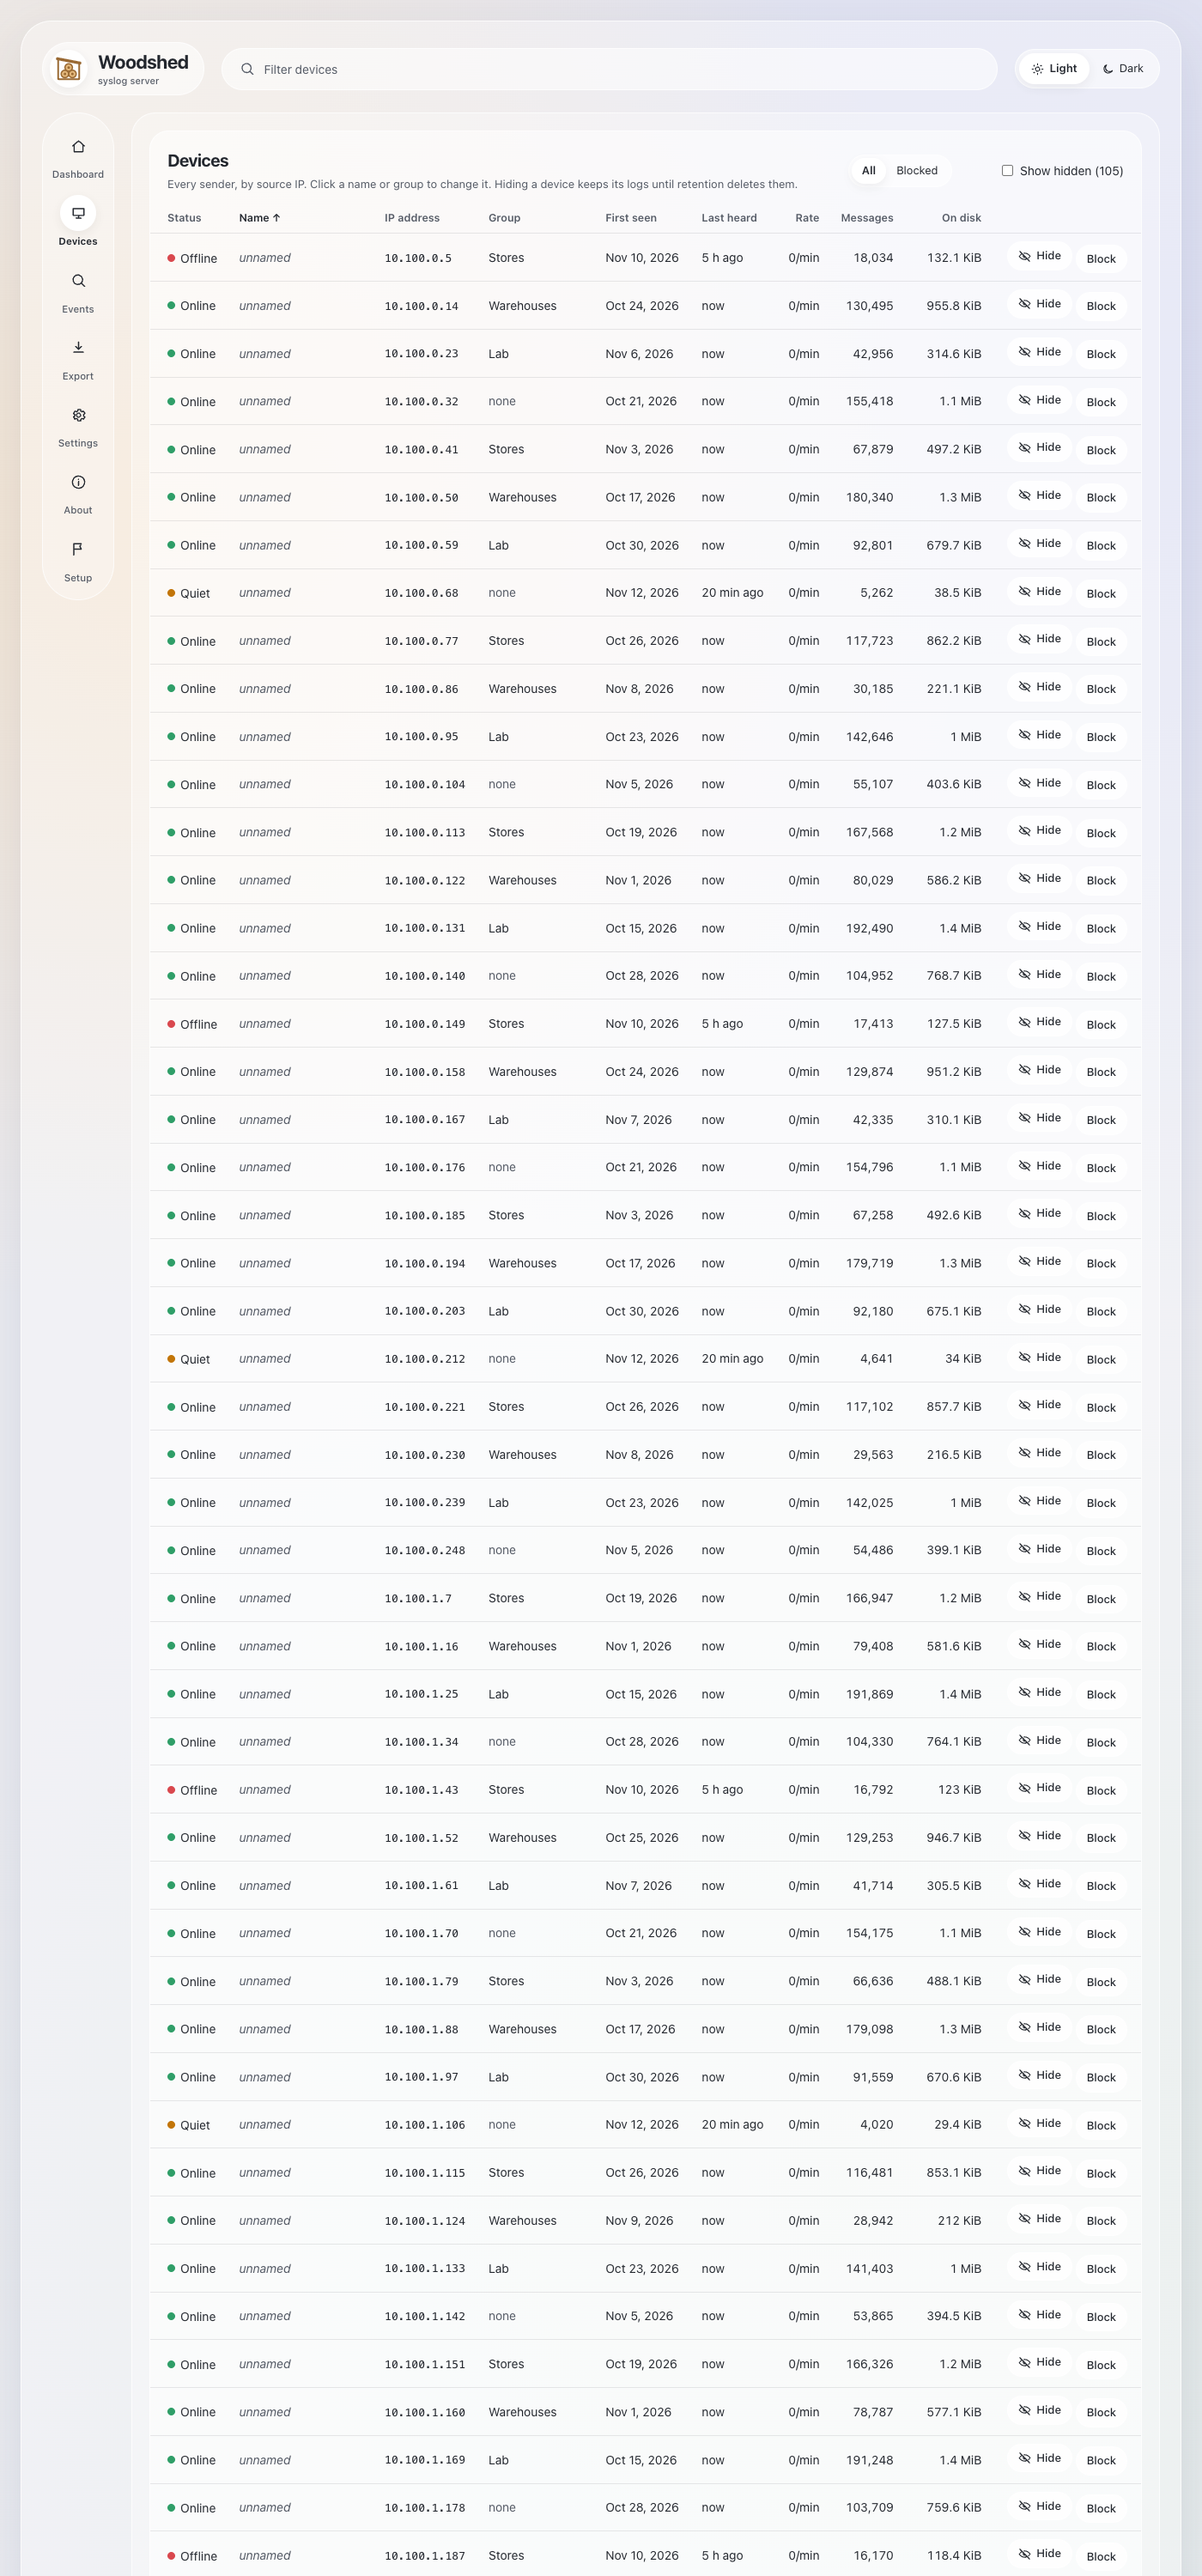
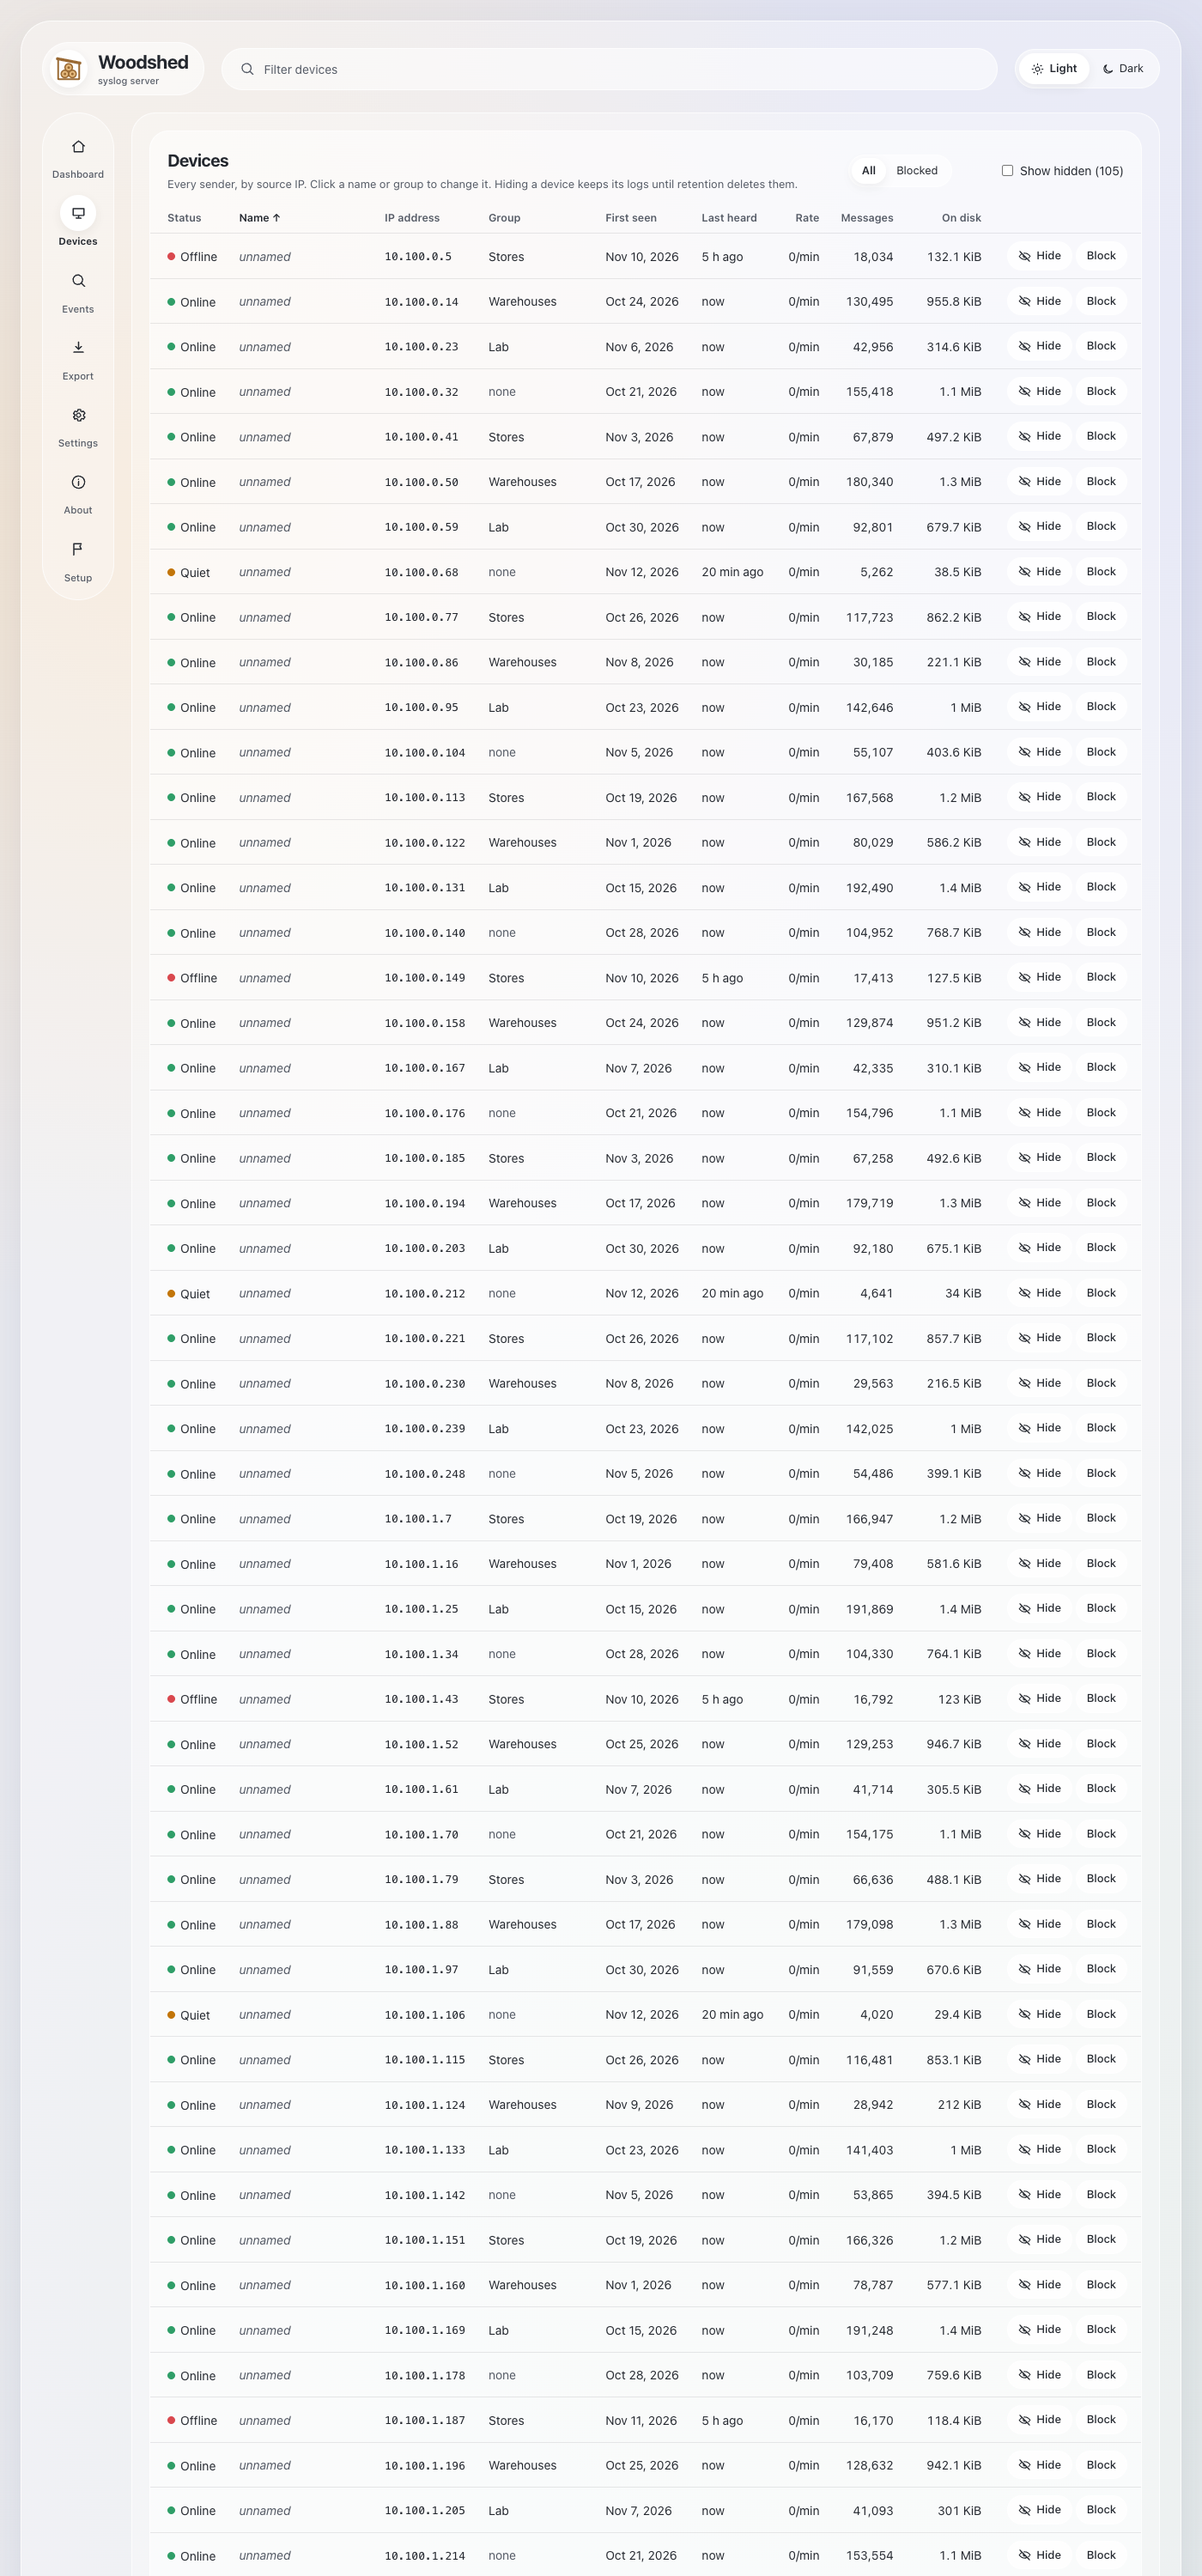
Devices: keep Hide/Block on one line next to the TLS badges
At 1400 px the 1.1 TLS badge widened the IP column, and the actions
column, which could wrap, took the squeeze: Hide and Block stacked on
every row. The actions cell is now nowrap, the badge drops under the IP
when its column is tight, and the two buttons share a middle alignment
(Hide's leading icon gave it a higher baseline). Regenerated the
devices-* shots; block-from-dashboard doesn't show this table and is
unchanged.

diff --git a/web/src/pages/Devices.svelte b/web/src/pages/Devices.svelte
@@ -244,8 +244,9 @@
               {/if}
               {#if rowError[d.id]}<div class="mt-1 text-[12.5px] text-bad-fg" role="alert">{rowError[d.id]}</div>{/if}
             </td>
-            <td class="whitespace-nowrap">
-              <span class="font-mono text-[13px]">{d.ip}</span>
+            <!-- The TLS badge goes under the IP when the column is tight, so the row's actions keep their one line. -->
+            <td><span class="ipcell">
+              <span class="font-mono text-[13px] whitespace-nowrap">{d.ip}</span>
               {#if d.tls}
                 {@const h = tlsHealth(d.tls)}
                 <button
@@ -258,7 +259,7 @@
                   {h === 'failing' ? 'TLS failing' : h === 'some' ? `TLS · ${num(d.tls.failures_24h)} failed` : 'TLS'}
                 </button>
               {/if}
-            </td>
+            </span></td>
             <td class="min-w-[120px]">
               {#if editing?.id === d.id && editing.field === 'group'}
                 <input
@@ -283,7 +284,7 @@
             <td class="text-right whitespace-nowrap tabular-nums">{rate(d.msgs_per_min)}</td>
             <td class="text-right whitespace-nowrap tabular-nums">{num(d.total_msgs)}</td>
             <td class="text-right whitespace-nowrap tabular-nums">{bytes(d.bytes_on_disk)}</td>
-            <td class="text-right">
+            <td class="acts text-right whitespace-nowrap">
               <button
                 class="ghost-btn whitespace-nowrap"
                 disabled={saving === d.id}
@@ -413,9 +414,19 @@
     color: inherit;
     cursor: pointer;
   }
+  /* Hide starts with its icon, so an inline-flex baseline would sit it higher than Block. */
+  .acts .ghost-btn {
+    vertical-align: middle;
+  }
+  .ipcell {
+    display: inline-flex;
+    flex-wrap: wrap;
+    align-items: center;
+    gap: 4px 8px;
+  }
   .tls {
-    margin-left: 8px;
     padding: 1px 8px;
+    white-space: nowrap;
     border-radius: 999px;
     border: 1px solid var(--input-border);
     background: var(--chip);
@@ -424,7 +435,6 @@
     font-size: 11.5px;
     font-weight: 600;
     cursor: pointer;
-    vertical-align: 1px;
   }
   .tls.some,
   .tls.failing {
